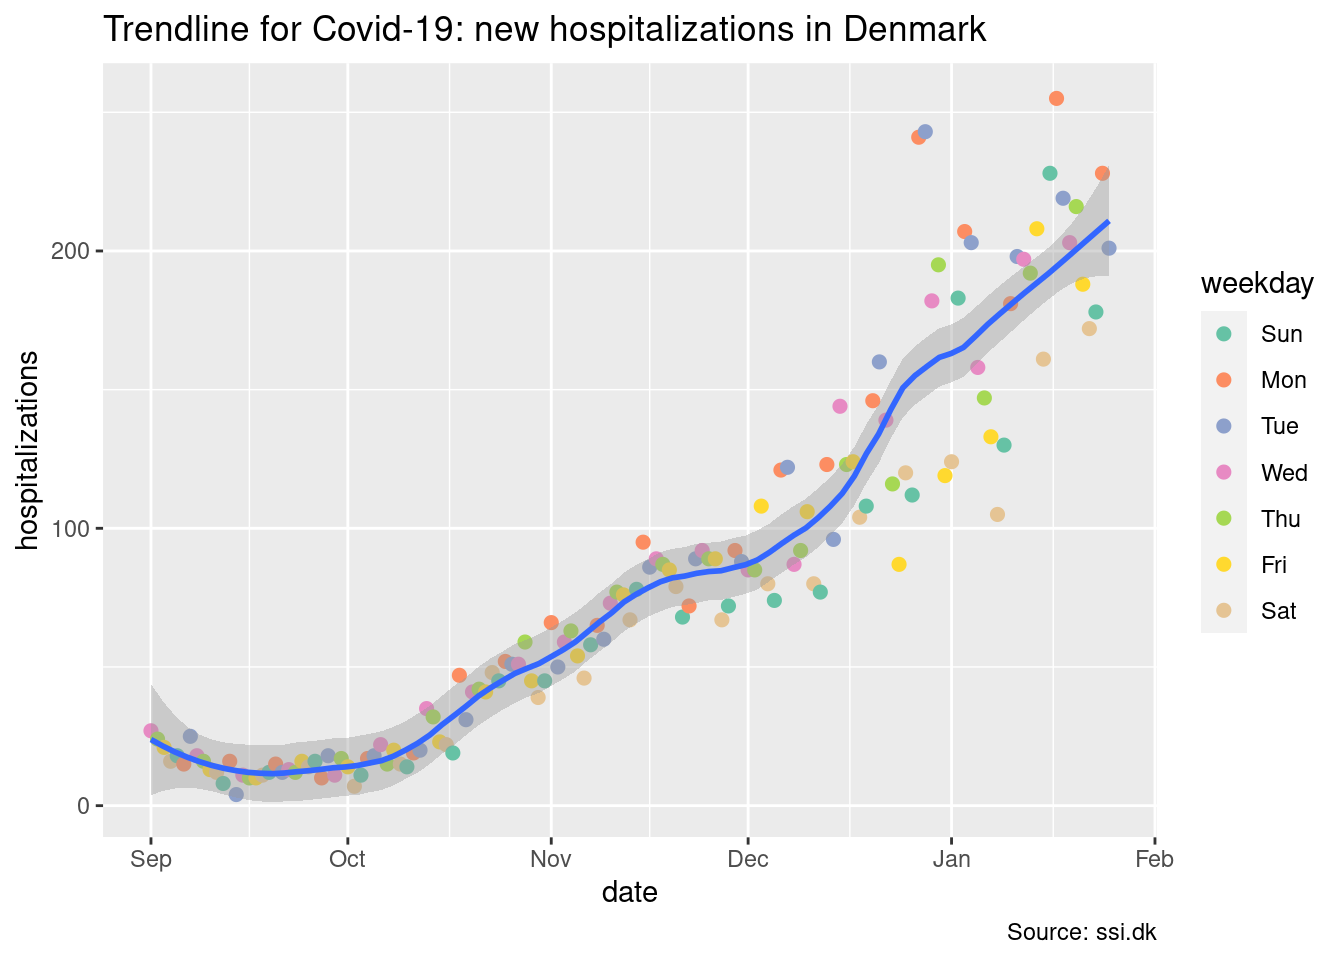
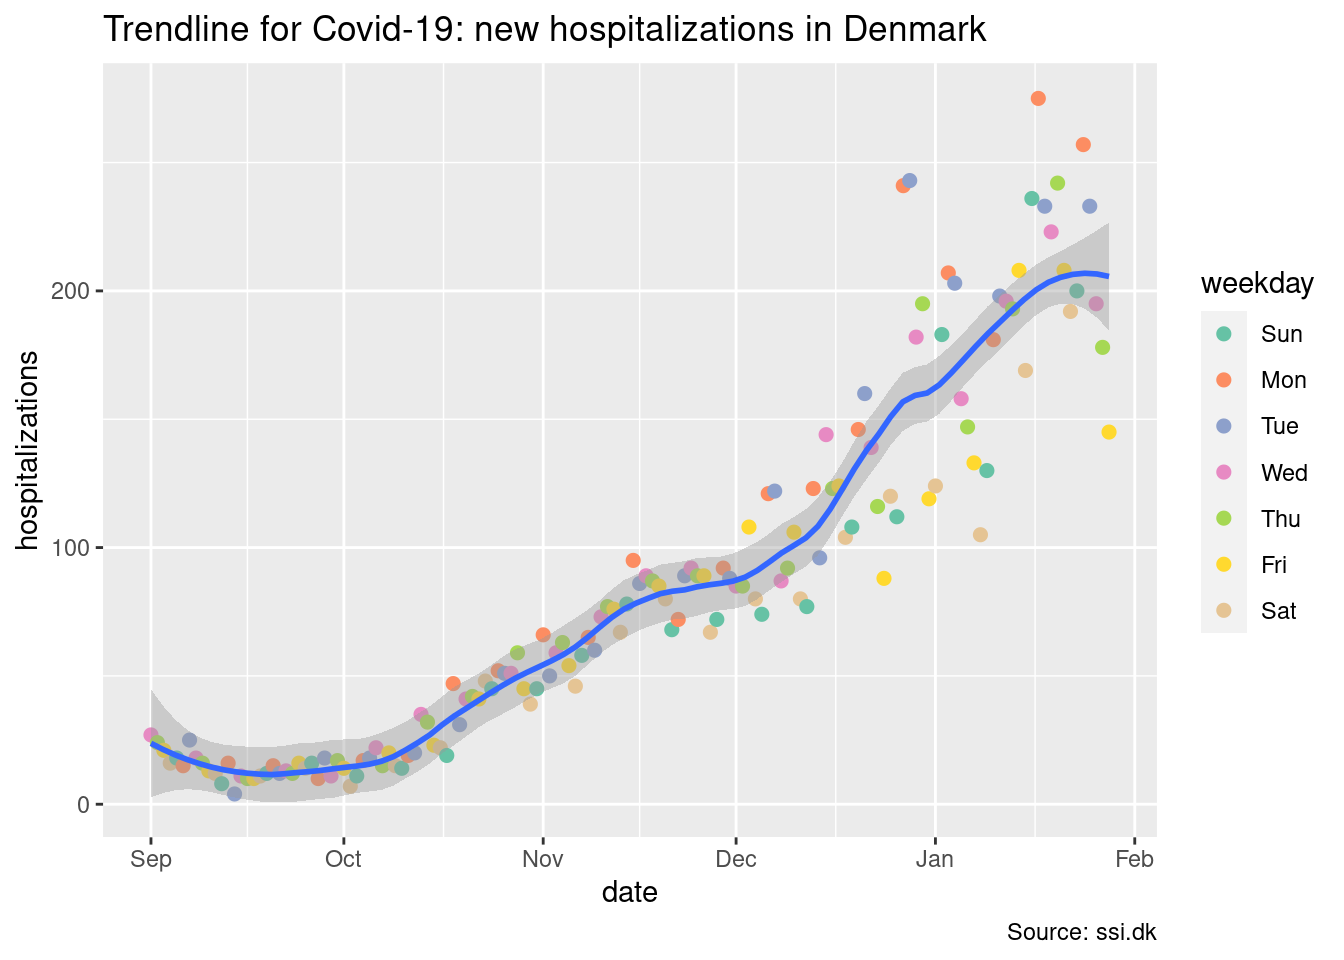
2022-01-31

diff --git a/docs/index.html b/docs/index.html
@@ -10,7 +10,7 @@
 
 
 
-<meta name="date" content="2022-01-28" />
+<meta name="date" content="2022-01-31" />
 
 <title>Covid-19 Stats for Denmark</title>
 
@@ -258,7 +258,7 @@ $(document).ready(function () {
 
 
 <h1 class="title toc-ignore">Covid-19 Stats for Denmark</h1>
-<h4 class="date">2022-01-28</h4>
+<h4 class="date">2022-01-31</h4>
 
 </div>
 
@@ -305,7 +305,7 @@ $(document).ready(function () {
 <pre class="r"><code>library(tidyverse)
 library(lubridate)</code></pre>
 <p>SSI’s data is in a zip file. We unpack this zip file into a directory of the general form <code>YYYY-MM-DD</code>. Lets set up a name for the current directory we want to grab data from</p>
-<pre class="r"><code>date &lt;- &quot;2022-01-28&quot;</code></pre>
+<pre class="r"><code>date &lt;- &quot;2022-01-31&quot;</code></pre>
 </div>
 <div id="ingesting-data" class="section level2">
 <h2>Ingesting data</h2>
@@ -347,7 +347,7 @@ library(lubridate)</code></pre>
                                       ))</code></pre>
 <pre><code>## ℹ Using &quot;&#39;,&#39;&quot; as decimal and &quot;&#39;.&#39;&quot; as grouping mark. Use `read_delim()` for more control.</code></pre>
 <pre class="r"><code>data</code></pre>
-<pre><code>## # A tibble: 6,664 × 9
+<pre><code>## # A tibble: 6,698 × 9
 ##    Region      Prøvetagningsdato Køn   `Bekræftede tilfælde`  Døde Indlæggelser
 ##    &lt;fct&gt;       &lt;date&gt;            &lt;fct&gt;                 &lt;dbl&gt; &lt;dbl&gt;        &lt;dbl&gt;
 ##  1 Sjælland    2020-02-26        M                         1     0            0
@@ -360,7 +360,7 @@ library(lubridate)</code></pre>
 ##  8 Hovedstaden 2020-03-03        F                         1     0            0
 ##  9 Hovedstaden 2020-03-03        M                         3     0            1
 ## 10 Hovedstaden 2020-03-04        M                         2     0            0
-## # … with 6,654 more rows, and 3 more variables: Kummuleret antal døde &lt;dbl&gt;,
+## # … with 6,688 more rows, and 3 more variables: Kummuleret antal døde &lt;dbl&gt;,
 ## #   Kummuleret antal bekræftede tilfælde &lt;dbl&gt;,
 ## #   Kummuleret antal indlæggelser &lt;dbl&gt;</code></pre>
 <p>We certainly don’t want to work with danish-named columns. Rather, we want small descriptive names which are easy to type. We send our dataset through a <code>rename</code> pass for this.</p>
@@ -375,7 +375,7 @@ library(lubridate)</code></pre>
 # Cut the cumulative columns away
 data &lt;- data %&gt;% select(region, date, gender, cases, deaths, hospitalizations)
 data</code></pre>
-<pre><code>## # A tibble: 6,664 × 6
+<pre><code>## # A tibble: 6,698 × 6
 ##    region      date       gender cases deaths hospitalizations
 ##    &lt;fct&gt;       &lt;date&gt;     &lt;fct&gt;  &lt;dbl&gt;  &lt;dbl&gt;            &lt;dbl&gt;
 ##  1 Sjælland    2020-02-26 M          1      0                0
@@ -388,7 +388,7 @@ data</code></pre>
 ##  8 Hovedstaden 2020-03-03 F          1      0                0
 ##  9 Hovedstaden 2020-03-03 M          3      0                1
 ## 10 Hovedstaden 2020-03-04 M          2      0                0
-## # … with 6,654 more rows</code></pre>
+## # … with 6,688 more rows</code></pre>
 <p>Provide a low cut-off. We are interested in the recent period with Omicron, rather than the full duration of Covid-19.</p>
 <pre class="r"><code>lo_cutoff &lt;- &#39;2021-09-01&#39;</code></pre>
 <p>The high end of that cutoff, we set to two days before the maximal date in our data set</p>
@@ -402,7 +402,7 @@ data</code></pre>
 # Put this into the summary
 summary &lt;- data
 summary</code></pre>
-<pre><code>## # A tibble: 1,470 × 6
+<pre><code>## # A tibble: 1,500 × 6
 ##    region      date       gender cases deaths hospitalizations
 ##    &lt;fct&gt;       &lt;date&gt;     &lt;fct&gt;  &lt;dbl&gt;  &lt;dbl&gt;            &lt;dbl&gt;
 ##  1 Hovedstaden 2021-09-01 F        210      0                7
@@ -415,7 +415,7 @@ summary</code></pre>
 ##  8 Nordjylland 2021-09-01 M         16      1                2
 ##  9 Sjælland    2021-09-01 M         37      0                3
 ## 10 Syddanmark  2021-09-01 M         41      0                1
-## # … with 1,460 more rows</code></pre>
+## # … with 1,490 more rows</code></pre>
 </div>
 <div id="weekly-key-figures-split-by-age" class="section level3">
 <h3>Weekly key figures split by age</h3>
@@ -440,7 +440,7 @@ summary</code></pre>
                         tested = &#39;Antal testede&#39;,
                         cases = &#39;Antal positive&#39;)
 data</code></pre>
-<pre><code>## # A tibble: 913 × 7
+<pre><code>## # A tibble: 922 × 7
 ##    week     ageGroup tested_100k cases_100k hospitalized_100k tested cases
 ##    &lt;chr&gt;    &lt;fct&gt;          &lt;dbl&gt;      &lt;dbl&gt;             &lt;dbl&gt;  &lt;dbl&gt; &lt;dbl&gt;
 ##  1 2020-W04 00-02              0          0                 0      0     0
@@ -453,7 +453,7 @@ data</code></pre>
 ##  8 2020-W04 65-79              0          0                 0      0     0
 ##  9 2020-W04 80+                0          0                 0      0     0
 ## 10 2020-W05 65-79              0          0                 0      1     0
-## # … with 903 more rows</code></pre>
+## # … with 912 more rows</code></pre>
 <p>Take a look at the <code>week</code> column. It reports a year, and a week number. We’ll need to handle this, by converting this into a date. We’ll do that by defining a fixup function. If we have a string such as <code>2020-W04</code>, it means the 4th week of 2020. To get a date, we need a day inside the week to use as the day-of-week. So we turn the string into <code>2020-W04-1</code>, then send it through <code>strptime()</code>, a general time-parsing function.</p>
 <pre class="r"><code>fixup_week &lt;- function(s) {
     # For strptime to do its work correctly, it must know a day of the week. Here, we
@@ -506,15 +506,15 @@ data</code></pre>
 ##     lau1 name      `Bekræftede tilf… Incidens cases incidence tested tested_100k
 ##    &lt;dbl&gt; &lt;fct&gt;                 &lt;dbl&gt;    &lt;dbl&gt; &lt;dbl&gt;     &lt;dbl&gt;  &lt;dbl&gt;       &lt;dbl&gt;
 ##  1   411 &quot;&quot;                        0       NA     0         0     87       95604
-##  2   101 &quot;Københa…            239966    37421 30030      4683 650873      101000
-##  3   147 &quot;Frederi…             36131    35014  4761      4614 110773      107000
-##  4   151 &quot;Balleru…             17199    34969  2776      5644  49701      101000
-##  5   153 &quot;Brøndby&quot;             14075    39494  1934      5427  35866      101000
-##  6   155 &quot;Dragør&quot;               4848    33187   671      4593  14435       98816
-##  7   157 &quot;Gentoft…             25197    34083  3920      5302  75303      102000
-##  8   159 &quot;Gladsax…             24561    35519  3689      5335  71381      103000
-##  9   161 &quot;Glostru…              8637    36882  1223      5222  24194      103000
-## 10   163 &quot;Herlev&quot;              11152    38746  1551      5389  29535      103000
+##  2   101 &quot;Københa…            247223    38552 26867      4190 651514      102000
+##  3   147 &quot;Frederi…             37264    36112  4233      4102 110889      107000
+##  4   151 &quot;Balleru…             17963    36523  2472      5026  49753      101000
+##  5   153 &quot;Brøndby&quot;             14550    40827  1669      4683  35904      101000
+##  6   155 &quot;Dragør&quot;               5051    34577   609      4169  14448       98905
+##  7   157 &quot;Gentoft…             26239    35493  3611      4884  75381      102000
+##  8   159 &quot;Gladsax…             25492    36866  3244      4691  71461      103000
+##  9   161 &quot;Glostru…              8998    38423  1055      4505  24220      103000
+## 10   163 &quot;Herlev&quot;              11587    40258  1337      4645  29577      103000
 ## # … with 89 more rows, and 3 more variables: tested_1w &lt;dbl&gt;,
 ## #   tested_100k_1w &lt;dbl&gt;, population &lt;dbl&gt;</code></pre>
 <pre class="r"><code>muncipalities &lt;- data</code></pre>
@@ -674,21 +674,23 @@ muncipalities$incidence_type &lt;- ifelse(muncipalities$incidence_z &lt; 0, &quo
 muncipalities$rate_z &lt;- round(muncipalities$rate - mean(muncipalities$rate), 5)
 muncipalities$rate_type &lt;- ifelse(muncipalities$rate_z &lt; 0, &quot;Below mean&quot;, &quot;Above mean&quot;)
 muncipalities$rate</code></pre>
-<pre><code>##  [1] 0.0000000 0.2546966 0.2635337 0.2526392 0.2585216 0.2177158 0.2750298
-##  [8] 0.2564120 0.2465229 0.2468173 0.2278686 0.2551936 0.2437158 0.2779493
-## [15] 0.2636730 0.2448602 0.2214997 0.2635468 0.2697283 0.2556962 0.2548182
-## [22] 0.2532814 0.2284916 0.2795987 0.2750176 0.2403885 0.2638960 0.2497003
-## [29] 0.2350136 0.2499597 0.2408814 0.2455225 0.2178007 0.2013339 0.2517114
-## [36] 0.2358185 0.2476535 0.2398479 0.2413771 0.2692232 0.2375024 0.2247392
-## [43] 0.1617464 0.2204593 0.2373086 0.2580363 0.1773546 0.2249392 0.2382516
-## [50] 0.2312203 0.2234411 0.2097100 0.2433784 0.2014649 0.2745452 0.1774676
-## [57] 0.1223022 0.2409320 0.2369770 0.1792464 0.1890392 0.2790316 0.1891892
-## [64] 0.3000853 0.2699974 0.1840599 0.2291432 0.2355291 0.2326360 0.2109519
-## [71] 0.2518011 0.2290137 0.1923182 0.2090747 0.2628367 0.2288136 0.2765057
-## [78] 0.2137834 0.2624629 0.2619204 0.1538462 0.2807601 0.2833153 0.2209245
-## [85] 0.2268786 0.2155477 0.2041551 0.2084106 0.2175727 0.2194897 0.2441131
-## [92] 0.2403178 0.2164103 0.1183099 0.2490073 0.2416322 0.2183951 0.2433406
-## [99] 0.2787903</code></pre>
+<pre><code>##  [1] 0.00000000 0.26045777 0.26564167 0.25471406 0.26209171 0.22242513
+##  [7] 0.28020486 0.26119163 0.24241728 0.24995326 0.23012552 0.25359954
+## [13] 0.24467386 0.29835600 0.25210421 0.24287889 0.23494467 0.27686436
+## [19] 0.29217251 0.27763088 0.27326057 0.27237703 0.24639570 0.29990310
+## [25] 0.28959141 0.25849742 0.28028478 0.25736505 0.24796313 0.26152498
+## [31] 0.25362399 0.26879227 0.22994142 0.21317910 0.25953182 0.25321888
+## [37] 0.25956173 0.25460829 0.25879329 0.27658662 0.25029036 0.24879957
+## [43] 0.17806399 0.24354755 0.24084428 0.26569706 0.18767479 0.25645945
+## [49] 0.27871736 0.26018166 0.23957920 0.23387097 0.25531018 0.22995301
+## [55] 0.29563492 0.20521487 0.15572034 0.27039183 0.26749397 0.20363379
+## [61] 0.20959226 0.29373890 0.20318021 0.31514949 0.30510093 0.20016712
+## [67] 0.25083918 0.25973158 0.26544260 0.22459597 0.27830847 0.24022689
+## [73] 0.22215308 0.23598245 0.28337072 0.25334821 0.29407544 0.23463548
+## [79] 0.28539703 0.28927819 0.19298246 0.30969179 0.29983102 0.25168854
+## [85] 0.25508623 0.24421624 0.24049117 0.23562300 0.23860846 0.24319508
+## [91] 0.25991832 0.25666118 0.24733542 0.09876543 0.28680721 0.27545951
+## [97] 0.24898236 0.26888945 0.30287721</code></pre>
 <pre class="r"><code>ggplot(muncipalities %&gt;% mutate(name = fct_reorder(name, rate)), aes(x=name, y=rate)) +
   geom_bar(stat=&#39;identity&#39;, aes(fill=rate_type), width=.5)  +
   scale_colour_brewer(palette=&quot;Set2&quot;) +
@@ -748,15 +750,15 @@ popcount</code></pre>
 ##    name            incidence popcount
 ##    &lt;chr&gt;               &lt;dbl&gt;    &lt;dbl&gt;
 ##  1 &quot;&quot;                      0       NA
-##  2 &quot;København&quot;          4683   644987
-##  3 &quot;Frederiksberg&quot;      4614   103963
-##  4 &quot;Ballerup&quot;           5644    49228
-##  5 &quot;Brøndby&quot;            5427    35535
-##  6 &quot;Dragør&quot;             4593    14602
-##  7 &quot;Gentofte&quot;           5302    74154
-##  8 &quot;Gladsaxe&quot;           5335    69321
-##  9 &quot;Glostrup&quot;           5222    23519
-## 10 &quot;Herlev&quot;             5389    28861
+##  2 &quot;København&quot;          4190   644987
+##  3 &quot;Frederiksberg&quot;      4102   103963
+##  4 &quot;Ballerup&quot;           5026    49228
+##  5 &quot;Brøndby&quot;            4683    35535
+##  6 &quot;Dragør&quot;             4169    14602
+##  7 &quot;Gentofte&quot;           4884    74154
+##  8 &quot;Gladsaxe&quot;           4691    69321
+##  9 &quot;Glostrup&quot;           4505    23519
+## 10 &quot;Herlev&quot;             4645    28861
 ## # … with 89 more rows</code></pre>
 <p>Now, test correlation via Pearson:</p>
 <pre class="r"><code>plot(muncipalities$incidence, muncipalities$popcount)</code></pre>
@@ -766,13 +768,13 @@ popcount</code></pre>
 ##  Pearson&#39;s product-moment correlation
 ## 
 ## data:  muncipalities$incidence and muncipalities$popcount
-## t = 1.1539, df = 92, p-value = 0.2515
+## t = 0.86295, df = 92, p-value = 0.3904
 ## alternative hypothesis: true correlation is not equal to 0
 ## 95 percent confidence interval:
-##  -0.0852416  0.3144455
+##  -0.1151003  0.2870124
 ## sample estimates:
-##       cor 
-## 0.1194382</code></pre>
+##        cor 
+## 0.08960639</code></pre>
 <p>Clearly, this argues there are no strong connection between population count, and the incidence in a given muncipality.</p>
 <p>Analyzing the rate shows there’s a connection between it and incidence, but this is more expected:</p>
 <pre class="r"><code>pairs(muncipalities %&gt;% select(incidence,popcount,rate))</code></pre>
@@ -782,17 +784,17 @@ popcount</code></pre>
 ##  Pearson&#39;s product-moment correlation
 ## 
 ## data:  muncipalities$incidence and muncipalities$rate
-## t = 13.996, df = 97, p-value &lt; 2.2e-16
+## t = 13.61, df = 97, p-value &lt; 2.2e-16
 ## alternative hypothesis: true correlation is not equal to 0
 ## 95 percent confidence interval:
-##  0.7398504 0.8741063
+##  0.7293701 0.8686262
 ## sample estimates:
-##      cor 
-## 0.817816</code></pre>
+##       cor 
+## 0.8101338</code></pre>
 <p>Summarize:</p>
 <pre class="r"><code>summary(muncipalities$rate)</code></pre>
 <pre><code>##    Min. 1st Qu.  Median    Mean 3rd Qu.    Max. 
-##  0.0000  0.2181  0.2403  0.2326  0.2554  0.3001</code></pre>
+##  0.0000  0.2399  0.2547  0.2504  0.2728  0.3151</code></pre>
 <pre class="r"><code>d &lt;- density(muncipalities$rate)
 plot(d)</code></pre>
 <p><img src="index_files/figure-html/muncipality-summary-1.png" width="672" /></p>
